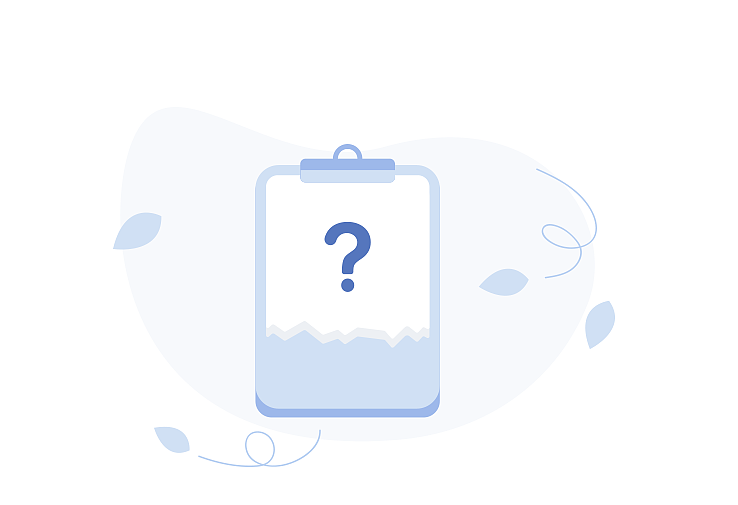
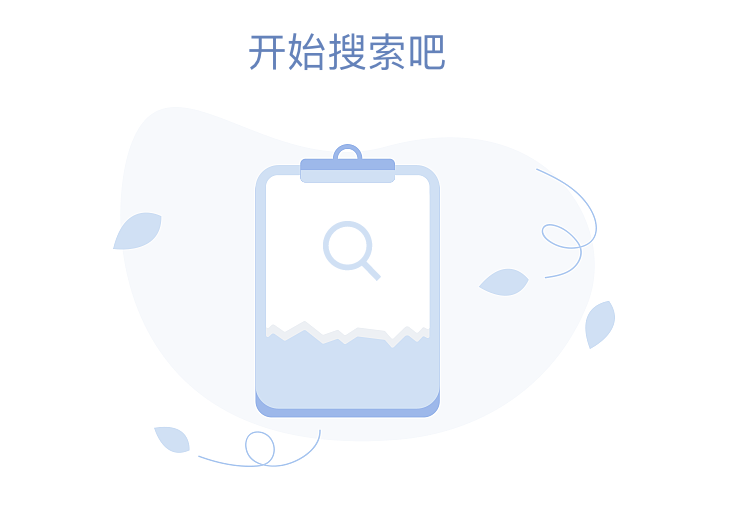
update imgs and add privacy url

Changed region(s): [[0.3428, 0.0594, 0.6233, 0.1485], [0.4363, 0.4158, 0.5298, 0.5941]]

diff --git a/privacy.html b/privacy.html
@@ -1,0 +1,61 @@
+<!DOCTYPE html>
+<html>
+<head>
+    <meta charset="utf-8">
+    <meta name="referrer" content="no-referrer"/>
+    <title>Subtitles - 隐私策略</title>
+</head>
+
+<body >
+    <div id="privacy">
+    本应用尊重并保护所有使用服务用户的个人隐私权。为了给您提供更准确、更有个性化的服务，本应用会按照本隐私权政策的规定使用和披露您的个人信息。但本应用将以高度的勤勉、审慎义务对待这些信息。除本隐私权政策另有规定外，在未征得您事先许可的情况下，本应用不会将这些信息对外披露或向第三方提供。本应用会不时更新本隐私权政策。 您在同意本应用服务使用协议之时，即视为您已经同意本隐私权政策全部内容。本隐私权政策属于本应用服务使用协议不可分割的一部分。<br>
+    <br>
+    <br>
+    1. 适用范围<br>
+    (a) 在您注册本应用帐号时，您根据本应用要求提供的个人注册信息；<br>
+    (b) 在您使用本应用网络服务，或访问本应用平台网页时，本应用自动接收并记录的您的浏览器和计算机上的信息，包括但不限于您的IP地址、浏览器的类型、使用的语言、访问日期和时间、软硬件特征信息及您需求的网页记录等数据；<br>
+    (c) 本应用通过合法途径从商业伙伴处取得的用户个人数据。<br>
+    您了解并同意，以下信息不适用本隐私权政策：<br>
+    (a) 您在使用本应用平台提供的搜索服务时输入的关键字信息；<br>
+    (b) 本应用收集到的您在本应用发布的有关信息数据，包括但不限于参与活动、成交信息及评价详情；<br>
+    (c) 违反法律规定或违反本应用规则行为及本应用已对您采取的措施。<br>
+    <br>
+    <br>
+    2. 信息使用<br>
+    (a)本应用不会向任何无关第三方提供、出售、出租、分享或交易您的个人信息，除非事先得到您的许可，或该第三方和本应用（含本应用关联团队）单独或共同为您提供服务，且在该服务结束后，其将被禁止访问包括其以前能够访问的所有这些资料。<br>
+    (b) 本应用亦不允许任何第三方以任何手段收集、编辑、出售或者无偿传播您的个人信息。任何本应用平台用户如从事上述活动，一经发现，本应用有权立即终止与该用户的服务协议。<br>
+    (c) 为服务用户的目的，本应用可能通过使用您的个人信息，向您提供您感兴趣的信息，包括但不限于向您发出产品和服务信息，或者与本应用合作伙伴共享信息以便他们向您发送有关其产品和服务的信息（后者需要您的事先同意）。<br>
+    <br>
+    <br>
+    3. 信息披露<br>在如下情况下，本应用将依据您的个人意愿或法律的规定全部或部分的披露您的个人信息：<br>(a) 经您事先同意，向第三方披露；<br>(b)为提供您所要求的产品和服务，而必须和第三方分享您的个人信息；<br>(c) 根据法律的有关规定，或者行政或司法机构的要求，向第三方或者行政、司法机构披露；<br>(d) 如您出现违反中国有关法律、法规或者本应用服务协议或相关规则的情况，需要向第三方披露；<br>(e) 如您是适格的知识产权投诉人并已提起投诉，应被投诉人要求，向被投诉人披露，以便双方处理可能的权利纠纷；<br>
+    (f) 在本应用平台上创建的某一交易中，如交易任何一方履行或部分履行了交易义务并提出信息披露请求的，本应用有权决定向该用户提供其交易对方的联络方式等必要信息，以促成交易的完成或纠纷的解决。<br>
+    (g) 其它本应用根据法律、法规或者网站政策认为合适的披露。<br>
+    <br>
+    <br>
+    4. 信息存储和交换<br>
+    本应用收集的有关您的信息和资料将保存在本应用及（或）其关联团队的服务器上，这些信息和资料可能传送至您所在国家、地区或本应用收集信息和资料所在地的境外并在境外被访问、存储和展示。<br>
+    <br>
+    <br>
+    5. Cookie的使用<br>
+    (a) 在您未拒绝接受cookies的情况下，本应用会在您的计算机上设定或取用cookies ，以便您能登录或使用依赖于cookies的本应用平台服务或功能。本应用使用cookies可为您提供更加周到的个性化服务，包括推广服务。<br>
+    (b) 您有权选择接受或拒绝接受cookies。您可以通过修改浏览器设置的方式拒绝接受cookies。但如果您选择拒绝接受cookies，则您可能无法登录或使用依赖于cookies的本应用网络服务或功能。<br>
+    (c) 通过本应用所设cookies所取得的有关信息，将适用本政策。<br>
+    <br>
+    <br>
+    6. 信息安全<br>
+    (a) 本应用帐号均有安全保护功能，请妥善保管您的用户名及密码信息。本应用将通过对用户密码进行加密等安全措施确保您的信息不丢失，不被滥用和变造。尽管有前述安全措施，但同时也请您注意在信息网络上不存在“完善的安全措施”。<br>
+    (b) 在使用本应用网络服务进行网上交易时，您不可避免的要向交易对方或潜在的交易对方披露自己的个人信息，如联络方式或者邮政地址。请您妥善保护自己的个人信息，仅在必要的情形下向他人提供。如您发现自己的个人信息泄密，尤其是本应用用户名及密码发生泄露，请您立即联络本应用客服，以便本应用采取相应措施。<br>
+    <br>
+    <br>
+    7.本隐私政策的更改<br>
+    (a)如果决定更改隐私政策，我们会在本政策中、本团队网站中以及我们认为适当的位置发布这些更改，以便您了解我们如何收集、使用您的个人信息，哪些人可以访问这些信息，以及在什么情况下我们会透露这些信息。<br>
+    (b)本团队保留随时修改本政策的权利，因此请经常查看。如对本政策作出重大更改，本团队会通过网站通知的形式告知。<br>
+    方披露自己的个人信息，如联络方式或者邮政地址。请您妥善保护自己的个人信息，仅在必要的情形下向他人提供。如您发现自己的个人信息泄密，尤其是本应用用户名及密码发生泄露，请您立即联络本应用客服，以便本应用采取相应措施
+    </div>
+    <style>
+        #privacy{
+            margin:20px;
+        }
+    </style>
+</body>
+</html>

diff --git a/index.html b/index.html
@@ -4,7 +4,10 @@
     <meta charset="utf-8">
     <meta name="referrer" content="no-referrer"/>
     <title>Hailing's Subtitles</title>
-    <link rel="shortcut icon" type="image/png" href="./img/favicon.png"/>
+    <link rel="apple-touch-icon" sizes="180x180" href="./img/favicons/apple-touch-icon.png">
+    <link rel="icon" type="image/png" sizes="32x32" href="./img/favicons/favicon-32x32.png">
+    <link rel="icon" type="image/png" sizes="16x16" href="./img/favicons/favicon-16x16.png">
+    <link rel="manifest" href="./img/favicons/site.webmanifest">
     <link href="https://fonts.googleapis.com/icon?family=Material+Icons" rel="stylesheet">
     <link type="text/css" rel="stylesheet" href="css/materialize.min.css"  media="screen,projection"/>
     <meta name="viewport" content="width=device-width, initial-scale=1.0"/>
